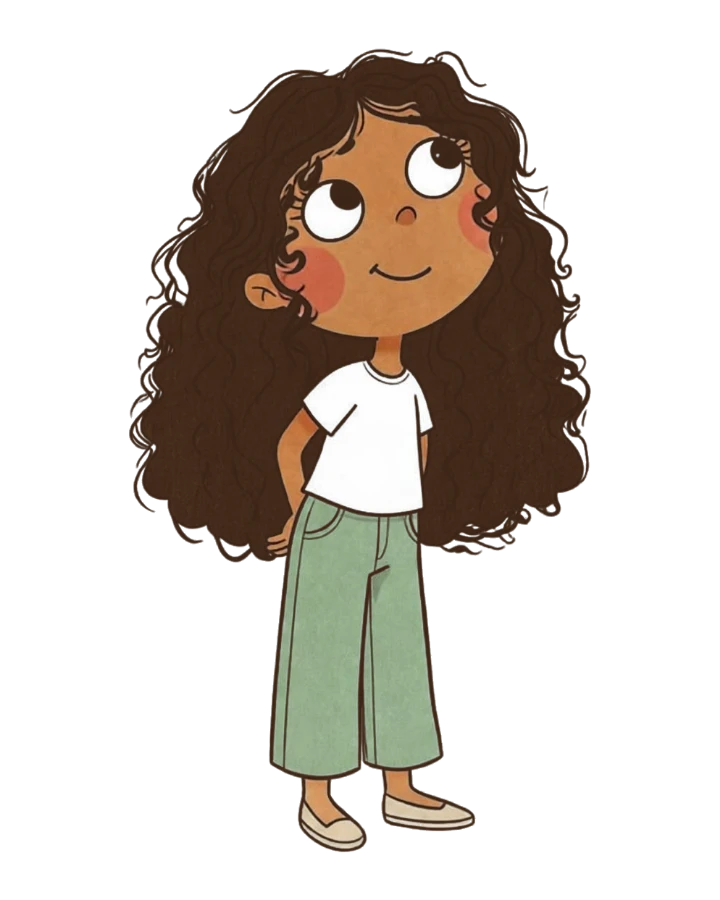
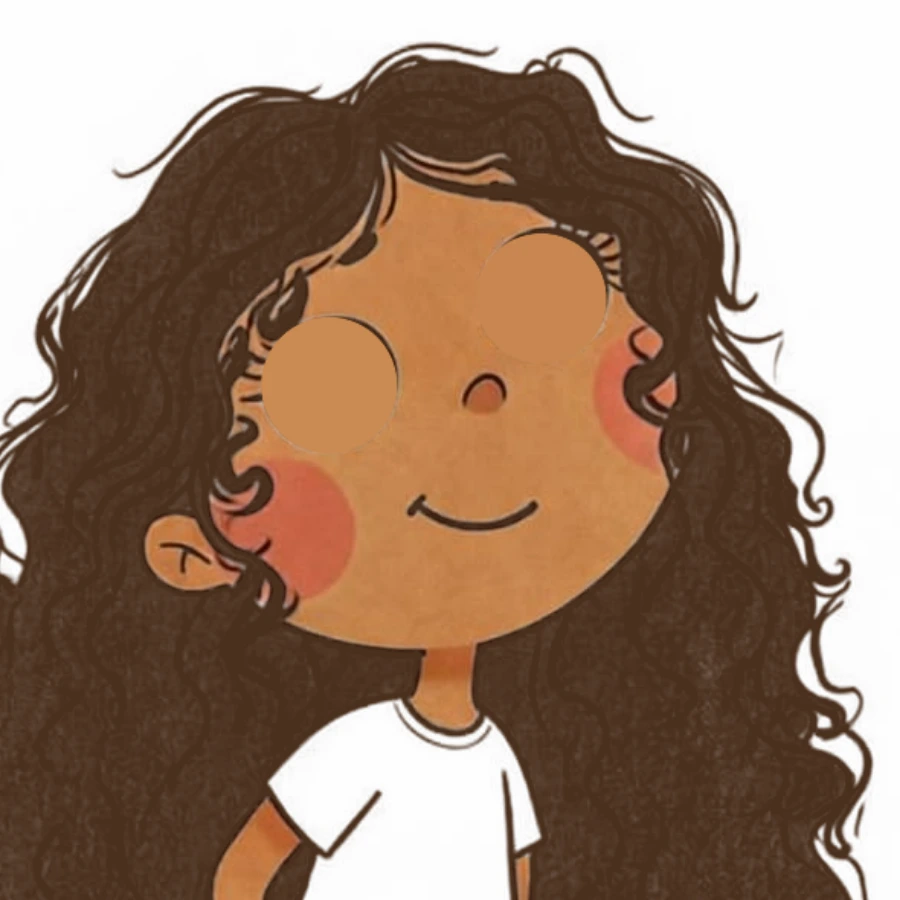
Publish resume site

diff --git a/index.html b/index.html
@@ -257,10 +257,16 @@ dialog.viewer::backdrop { background: var(--paper); }
   box-shadow: 0 2px 4px rgba(25,23,43,.05), 0 24px 50px rgba(25,23,43,.12);
   transform: rotate(-2deg) rotateX(var(--rx, 0deg)) rotateY(var(--ry, 0deg)); transition: transform .6s cubic-bezier(.2,.8,.2,1); will-change: transform; }
 .avatar:hover .stage { transform: rotate(0deg) rotateX(var(--rx, 0deg)) rotateY(var(--ry, 0deg)); }
-.avatar.tilting .stage, .avatar.tilting .person, .avatar.tilting .weight { transition-duration: .12s; }
-.pic { position: relative; display: flex; align-items: flex-end; justify-content: center; aspect-ratio: 4 / 5; border-radius: 16px; overflow: hidden; background: var(--pic); }
-.pic .person { position: relative; width: 100%; height: auto; display: block;
+.avatar.tilting .stage, .avatar.tilting .figure, .avatar.tilting .weight { transition-duration: .12s; }
+.pic { position: relative; display: block; aspect-ratio: 1; border-radius: 16px; overflow: hidden; background: #FEFEFE; }
+.figure { position: relative; display: block; width: 100%; scale: 1.03;
   translate: calc(var(--px, 0) * -6px) calc(var(--py, 0) * -4px); transition: translate .6s cubic-bezier(.2,.8,.2,1); }
+.figure .person { width: 100%; height: auto; display: block; }
+.eye { position: absolute; left: var(--l); top: var(--t); width: var(--s); aspect-ratio: 1; translate: -50% -50%; border-radius: 50%; background: #3F2718; }
+.eye .white { position: absolute; inset: var(--ring); border-radius: 50%; background: #FBFBFB; overflow: hidden; }
+.pupil { position: absolute; width: var(--ps); aspect-ratio: 1; border-radius: 50%; translate: -50% -50%;
+  left: calc(50% + var(--ox, var(--rx)) * 50%); top: calc(50% + var(--oy, var(--ry)) * 50%);
+  background: radial-gradient(circle at 64% 32%, #fff 0 14%, transparent 15%), #2E1D12; transition: left .2s ease-out, top .2s ease-out; }
 .sheen { position: absolute; inset: 0; border-radius: inherit; pointer-events: none; opacity: 0; transition: opacity .4s ease;
   background: radial-gradient(circle at var(--mx, 50%) var(--my, 0%), rgba(255,255,255,.4), rgba(255,255,255,0) 46%); }
 .avatar:hover .sheen { opacity: 1; }
@@ -367,7 +373,7 @@ footer .brand { margin: 0; color: var(--ink); }
   .status i::after, .doc .ln { animation: none; }
   .marquee .track { animation: none; flex-wrap: wrap; width: auto; }
   .js .reveal { opacity: 1; transform: none; transition: none; }
-  .stage, .pic .person, .weight { transition: none; }
+  .stage, .figure, .weight, .pupil { transition: none; }
 }
 </style>
 </head>
@@ -470,7 +476,7 @@ footer .brand { margin: 0; color: var(--ink); }
       <div class="portrait reveal">
         <div class="avatar" id="avatar">
           <div class="stage">
-            <span class="pic"><img class="person" src="assets/character.webp" width="720" height="900" alt="Illustrated character of Bahar with long dark brown curly hair, a white T-shirt and green trousers"></span>
+            <span class="pic"><span class="figure"><img class="person" src="assets/character.webp" width="900" height="900" alt="Illustrated character of Bahar with long dark brown curly hair and a white T-shirt"><span class="eye" style="--l:60.06%;--t:33.08%;--s:13.994%;--ring:9.69%;--ps:58.94%;--rx:0.602;--ry:-0.753" aria-hidden="true"><span class="white"><i class="pupil"></i></span></span><span class="eye" style="--l:36.48%;--t:42.703%;--s:14.63%;--ring:7.53%;--ps:54.33%;--rx:0.486;--ry:-0.641" aria-hidden="true"><span class="white"><i class="pupil"></i></span></span></span></span>
             <span class="sheen" aria-hidden="true"></span>
           </div>
           <img class="weight" src="assets/shapes/s18.png" alt="">
@@ -901,6 +907,26 @@ footer .brand { margin: 0; color: var(--ink); }
     if (navigator.clipboard) navigator.clipboard.writeText(t).then(done, function () {}); 
   });
   refresh(false);
+
+  /* About: the character's eyes follow the cursor, and drift back to her upward glance when it rests */
+  var eyeEls = Array.prototype.slice.call(document.querySelectorAll('.eye'));
+  if (eyeEls.length) {
+    var pending = null, idle;
+    var rest = function () { eyeEls.forEach(function (e) { e.style.removeProperty('--ox'); e.style.removeProperty('--oy'); }); };
+    var look = function () {
+      var ev = pending; pending = null;
+      eyeEls.forEach(function (e) {
+        var w = e.querySelector('.white').getBoundingClientRect(), cx = w.left + w.width / 2, cy = w.top + w.height / 2;
+        var dx = ev.clientX - cx, dy = ev.clientY - cy, dist = Math.hypot(dx, dy) || 1, k = Math.min(1, dist / 160) * 0.82;
+        e.style.setProperty('--ox', (dx / dist * k).toFixed(3)); e.style.setProperty('--oy', (dy / dist * k).toFixed(3));
+      });
+      clearTimeout(idle); idle = setTimeout(rest, 4000);
+    };
+    var about = document.getElementById('about'), aboutSeen = false;
+    if ('IntersectionObserver' in window) new IntersectionObserver(function (es) { aboutSeen = es[0].isIntersecting; if (!aboutSeen) rest(); }).observe(about); else aboutSeen = true;
+    window.addEventListener('pointermove', function (ev) { if (!aboutSeen) return; if (!pending) requestAnimationFrame(look); pending = ev; }, { passive: true });
+    document.addEventListener('pointerleave', rest);
+  }
 
   /* Copy email */
   var copy = document.getElementById('copy');
